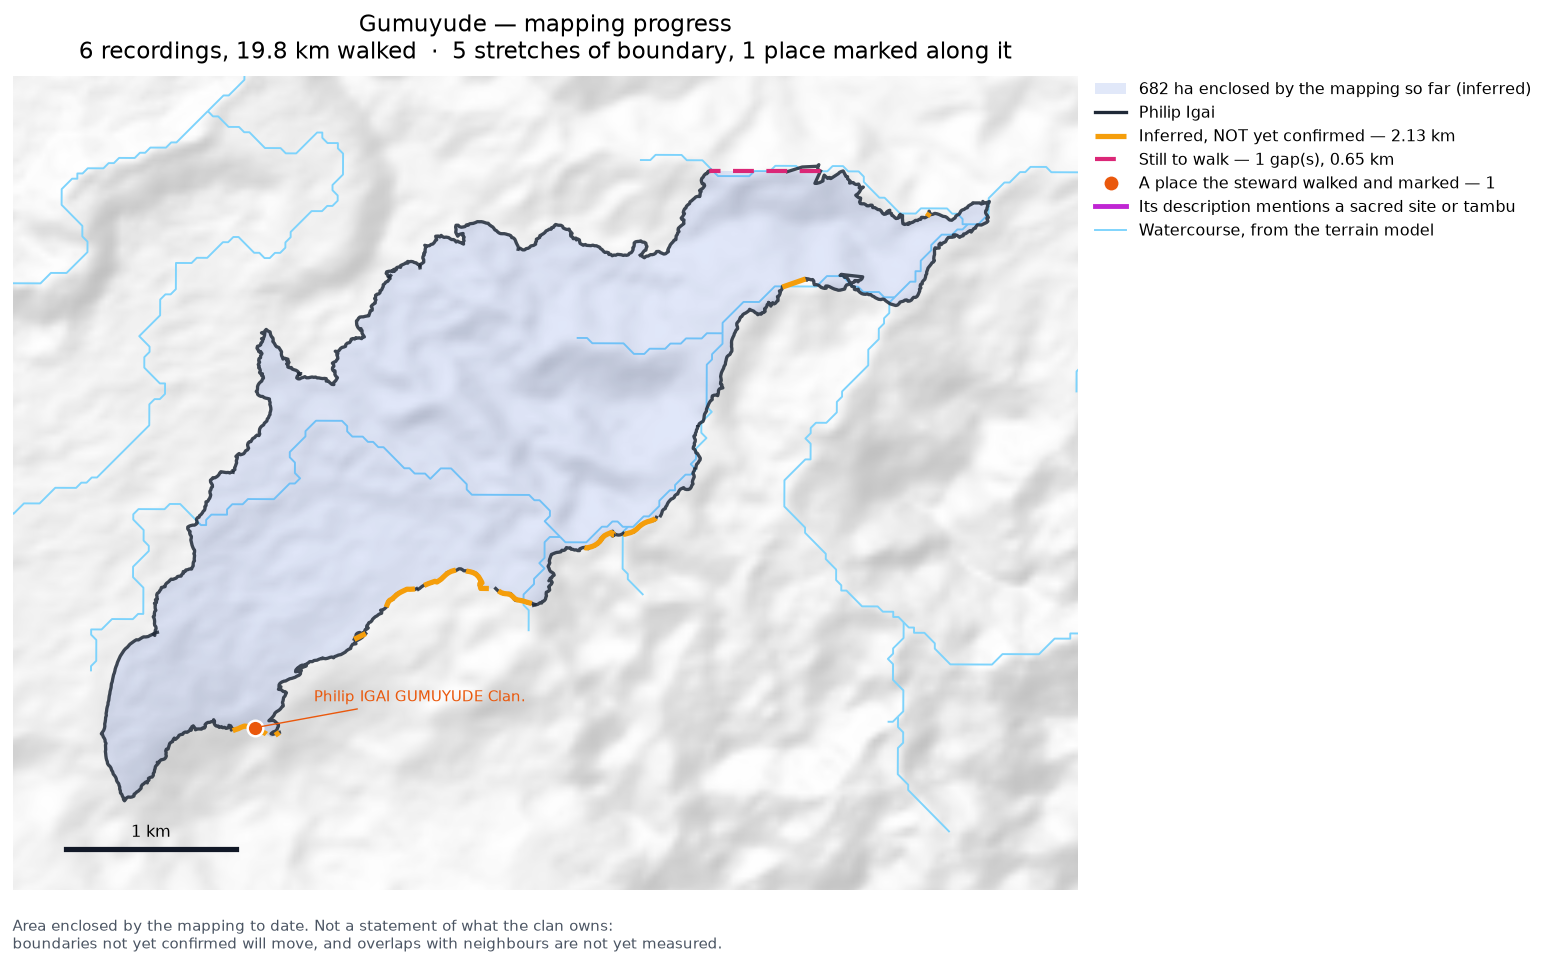
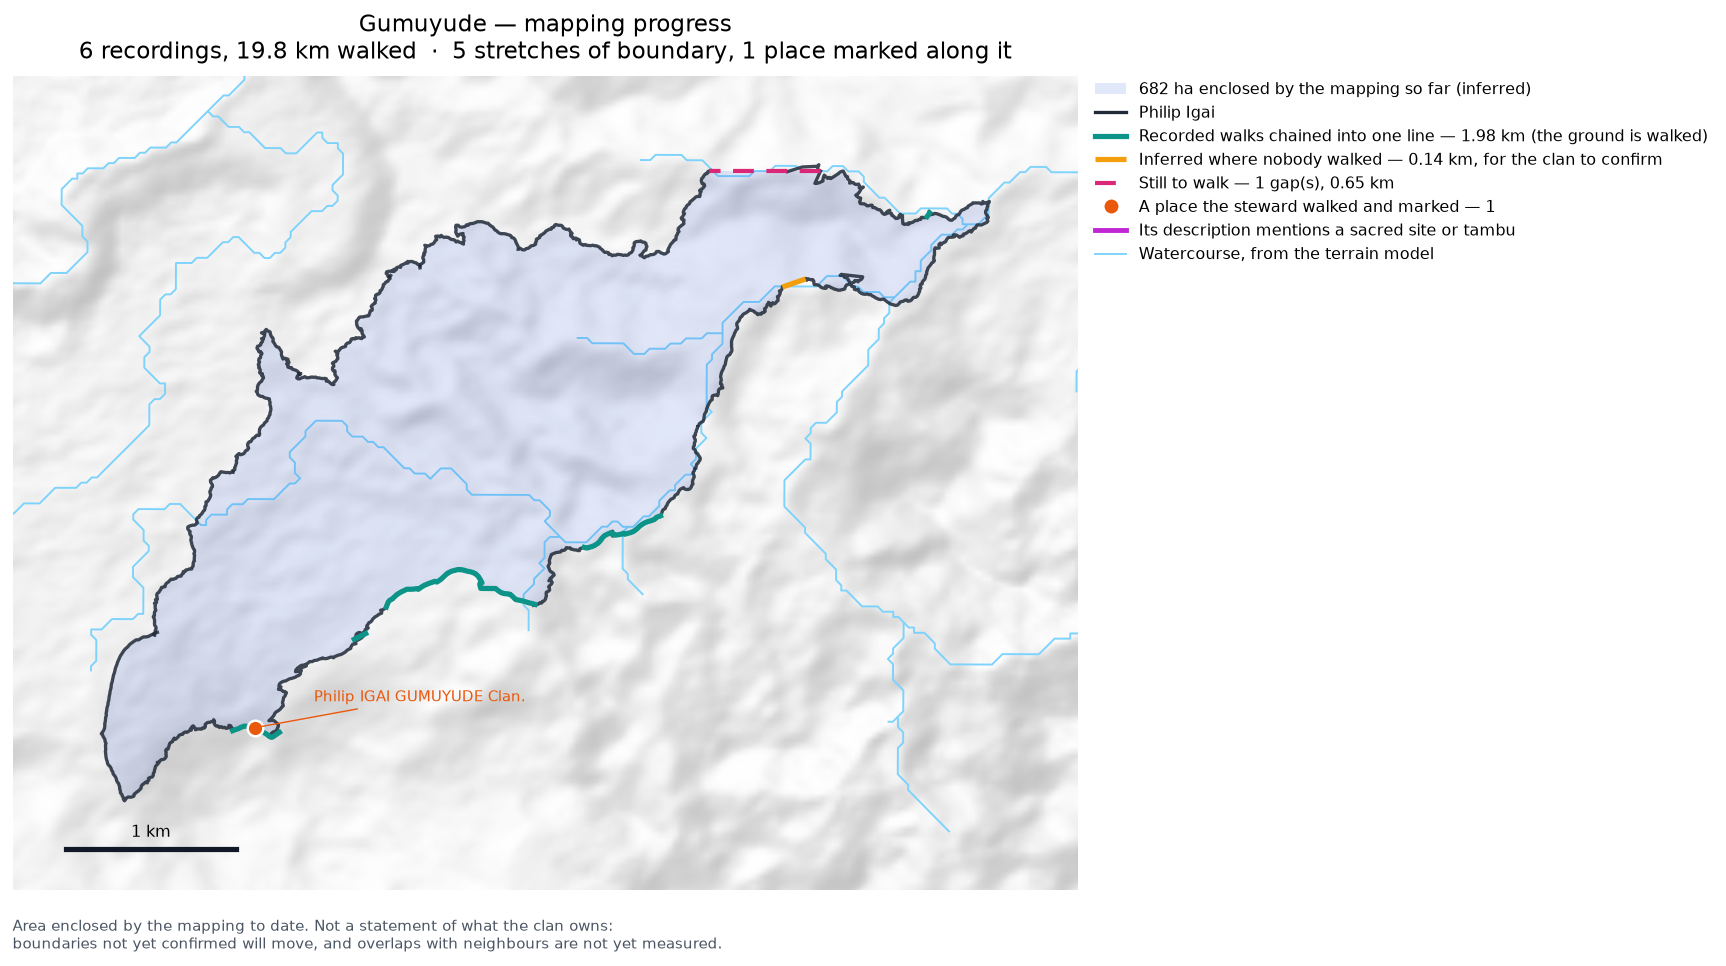
Chaining recorded walks is not inference, and the map must not say it is
A chord replaced by the steward's own track between the same two points
adds no claim about where the boundary runs. A line drawn along a river
or a ridge does. Lumping both as "inferred, not confirmed" would have
sent Gumuyude's clan to confirm 2.13 km of their own steward's walking.

The test is measurable — how much of a segment has walked line beside
it — and on Gumuyude it separates cleanly:

  arc_traced  1,058 m    97% has walked line within 30 m
  arc_traced    520 m   100%
  arc_traced    305 m   100%
  end_joined    144 m    42%
  end_joined     75 m   100%
  end_joined     26 m   100%

1,883 m of 2,127 is Philip Igai's own footsteps traced back into a line.
Only the 144 m join puts a line on ground nobody walked, and 42% of even
that has his track beside it.

Gumuyude now reads:

  walked                                16.8 km
  recorded walks chained into one line   1.98 km  (the ground is walked)
  inferred where nobody walked           0.14 km  (for the clan to confirm)
  still to walk                          0.65 km  (the one real gap)

So what goes back to the clan is 0.14 km to confirm and 0.65 km to walk.
The chord work was sounder than the reporting made it look.

Claude-Session: https://claude.ai/code/session_01K6X75MkuiGQ9rmgDZx45vk

diff --git a/scripts/everything_map.py b/scripts/everything_map.py
@@ -334,6 +334,7 @@ def main(argv: list[str] | None = None) -> int:
     except Exception as error:
         print(f"  (could not build the polygon: {error})")
 
+    walked_union = unary_union([r["geometry"] for r in found])
     shapes = unary_union([r["geometry"] for r in found]
                          + ([built["geometry"]] if built else []))
     minx, miny, maxx, maxy = shapes.bounds
@@ -354,15 +355,26 @@ def main(argv: list[str] | None = None) -> int:
     if built is not None:
         gpd.GeoSeries([built["geometry"]], crs=dataio.METRIC_CRS).plot(
             ax=axis, color="#1d4ed8", alpha=0.13, edgecolor="none", zorder=2)
-        # Four things, and the map has to keep them apart: what was
-        # walked, what was inferred, which inferences the clan has still
-        # to confirm, and what is left to walk.
+        # Chaining recorded walks together is not the same as asserting
+        # a line nobody walked, and the map must not say it is. A chord
+        # replaced by the steward's own track between the same two
+        # points adds no claim about where the boundary runs; a line
+        # drawn along a river or a ridge does. Gumuyude's six adopted
+        # segments are 2,127 m, of which 1,883 m is Philip Igai's own
+        # footsteps traced back into a line — calling all of it inferred
+        # would send the clan to confirm two kilometres of their own
+        # steward's walking.
+        #
+        # The test is measurable: how much of the segment has walked
+        # line beside it.
         for segment, kind, note in derived_rows:
-            settled = CONFIRMED.search(note or "") is not None
-            axis.plot(*segment.xy,
-                      color="#7c3aed" if settled else "#f59e0b",
-                      lw=3.0, zorder=6,
-                      linestyle="solid" if settled else (0, (7, 2)))
+            share = (segment.intersection(walked_union.buffer(30)).length
+                     / segment.length if segment.length else 0)
+            if share >= 0.80:
+                axis.plot(*segment.xy, color="#0d9488", lw=3.0, zorder=6)
+            else:
+                axis.plot(*segment.xy, color="#f59e0b", lw=3.0, zorder=6,
+                          linestyle=(0, (7, 2)))
         for bridge in built["bridges"]:
             axis.plot(*bridge.xy, color="#db2777", lw=2.4,
                       linestyle=(0, (5, 3)), zorder=7)
@@ -453,18 +465,26 @@ def main(argv: list[str] | None = None) -> int:
                   f"far ({built['basis']})"))
     handles += [Line2D([0], [0], color=colours[name], lw=1.9, label=name)
                 for name in walkers]
-    settled = [r for r in derived_rows if CONFIRMED.search(r[2] or "")]
-    pending = [r for r in derived_rows if not CONFIRMED.search(r[2] or "")]
-    if settled:
+    def walked_share(segment):
+        if not segment.length:
+            return 0.0
+        return (segment.intersection(walked_union.buffer(30)).length
+                / segment.length)
+
+    chained = [r for r in derived_rows if walked_share(r[0]) >= 0.80]
+    asserted = [r for r in derived_rows if walked_share(r[0]) < 0.80]
+    if chained:
         handles.append(Line2D(
-            [0], [0], color="#7c3aed", lw=3.0,
-            label=f"Inferred, confirmed with the clan — "
-                  f"{sum(r[0].length for r in settled) / 1000:.2f} km"))
-    if pending:
+            [0], [0], color="#0d9488", lw=3.0,
+            label=f"Recorded walks chained into one line — "
+                  f"{sum(r[0].length for r in chained) / 1000:.2f} km "
+                  f"(the ground is walked)"))
+    if asserted:
         handles.append(Line2D(
             [0], [0], color="#f59e0b", lw=3.0, linestyle=(0, (7, 2)),
-            label=f"Inferred, NOT yet confirmed — "
-                  f"{sum(r[0].length for r in pending) / 1000:.2f} km"))
+            label=f"Inferred where nobody walked — "
+                  f"{sum(r[0].length for r in asserted) / 1000:.2f} km, "
+                  f"for the clan to confirm"))
     if built is not None and built["bridges"]:
         handles.append(Line2D(
             [0], [0], color="#db2777", lw=2.4, linestyle=(0, (5, 3)),
